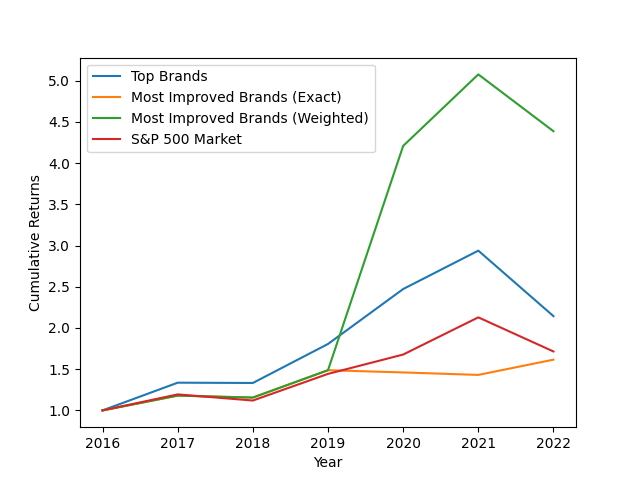
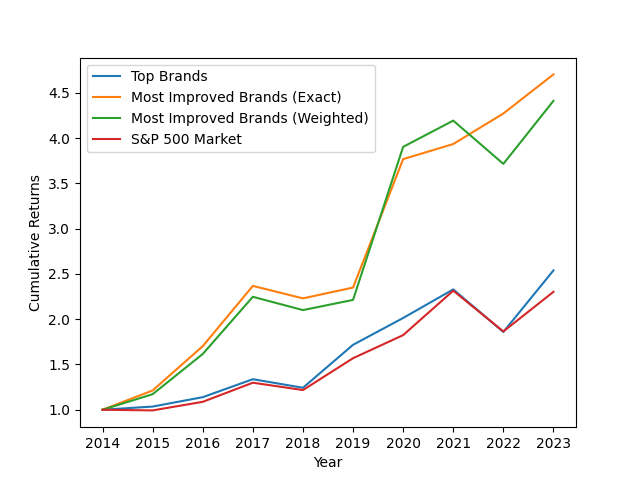
Add stock details for every strategy and year

diff --git a/calculate_returns.py b/calculate_returns.py
@@ -10,6 +10,9 @@ from reportlab.lib.utils import ImageReader
 from reportlab.platypus import Table, TableStyle
 from reportlab.lib import colors
 import numpy as np
+from reportlab.platypus import SimpleDocTemplate, Paragraph, Spacer, Image, Table
+from reportlab.lib.styles import getSampleStyleSheet
+from reportlab.lib.units import inch
 
 def get_returns(ticker, year):
     start_date = f"{year-1}-12-01"
@@ -30,35 +33,41 @@ def get_returns(ticker, year):
     yearly_return = data['Adj Close'].iloc[-1] / data['Adj Close'].iloc[0] - 1
     return monthly_returns, yearly_return
 
-def create_pdf(pdf_path, table_data):
-    c = canvas.Canvas(pdf_path, pagesize=letter)
-    width, height = letter  # Get the dimensions of the page
-    
-    # Cumulative Returns
-    image = ImageReader("data/cumulative_returns.png")
-    c.drawImage(image, 50, height - 350, width=500, height=300)  # Adjust the position and size as needed
+def create_pdf(pdf_path, table_data, stock_details_top_brands, stock_details_most_improved_exact, stock_details_most_improved_weighted):
+    doc = SimpleDocTemplate(pdf_path, pagesize=letter)
+    story = []
+    styles = getSampleStyleSheet()
 
-    # Yearly Returns
-    image = ImageReader("data/yearly_returns.png")
-    c.drawImage(image, 50, height - 700, width=500, height=300)  # Adjust the position and size as needed
+    # Add cumulative and yearly returns images
+    story.append(Paragraph('<b>Cumulative Returns</b>', styles['Heading2']))
+    story.append(Image('data/cumulative_returns.png', 6*inch, 3*inch))  # Adjust dimensions as needed
+    story.append(Spacer(1, 12))
 
-    # Net Returns and Sharpe Ratios
-    table_style = TableStyle([
-        ('BACKGROUND', (0, 0), (-1, 0), colors.grey),
-        ('TEXTCOLOR',(0,0),(-1,0),colors.whitesmoke),
-        ('ALIGN',(0,0),(-1,-1),'CENTER'),
-        ('FONTNAME', (0, 0), (-1, 0), 'Helvetica-Bold'),
-        ('BOTTOMPADDING', (0, 0), (-1, 0), 12),
-        ('BACKGROUND',(0,1),(-1,-1),colors.beige),
-        ('GRID',(0,0),(-1,-1),1,colors.black)
-    ])
-    table = Table(table_data, colWidths=[width/len(table_data[0])] * len(table_data[0]), hAlign='LEFT')
-    table.setStyle(table_style)
-    
-    table.wrapOn(c, width, height)
-    table.drawOn(c, 30, height - 800)  # Adjust as needed
+    story.append(Paragraph('<b>Yearly Returns</b>', styles['Heading2']))
+    story.append(Image('data/yearly_returns.png', 6*inch, 3*inch))  # Adjust dimensions as needed
+    story.append(Spacer(1, 12))
 
-    c.save()
+    # Add net returns and Sharpe Ratios table
+    story.append(Paragraph('<b>Net Returns and Sharpe Ratios</b>', styles['Heading2']))
+    table = Table(table_data, colWidths=[2.5*inch]*len(table_data[0]))
+    story.append(table)
+    story.append(Spacer(1, 12))
+
+    # Function to add stock details to the story
+    def add_stock_details_to_story(strategy_name, stock_details):
+        story.append(Paragraph(f'<b>{strategy_name} Strategy</b>', styles['Heading2']))
+        for year, stocks in stock_details.items():
+            story.append(Paragraph(f'Year {year}', styles['Heading3']))
+            for ticker, return_val in stocks:
+                story.append(Paragraph(f'{ticker}: {return_val:.2%}', styles['Normal']))
+            story.append(Spacer(1, 12))
+
+    # Add stock details for each strategy
+    add_stock_details_to_story('Top Brands', stock_details_top_brands)
+    add_stock_details_to_story('Most Improved Brands (Exact)', stock_details_most_improved_exact)
+    add_stock_details_to_story('Most Improved Brands (Weighted)', stock_details_most_improved_weighted)
+
+    doc.build(story)
 
 def calculate_performance_metrics(monthly_returns):
     # Assuming monthly_returns is a list of monthly returns
@@ -120,6 +129,8 @@ def load_brand_rankings(year, rankings_directory, most_improved=False, weighted=
 def calculate_returns_for_brands(ticker_mapping, start_year, end_year, rankings_directory, number_of_brands, most_improved=False, weighted=False):
     monthly_returns = {}
     yearly_returns = {}
+    stock_details = {}
+
     for year in range(start_year, end_year + 1):
         brands = load_brand_rankings(year, rankings_directory, most_improved, weighted, number_of_brands)
         tickers = [ticker_mapping.get(brand) for brand in brands if (ticker_mapping.get(brand, 'N/A') != 'N/A' and not (type(ticker_mapping.get(brand))==float and math.isnan(ticker_mapping.get(brand))))]
@@ -131,7 +142,16 @@ def calculate_returns_for_brands(ticker_mapping, start_year, end_year, rankings_
         average_monthly_returns = [sum(month) / len(month) for month in zip(*all_returns)]
         monthly_returns[year] = average_monthly_returns
         yearly_returns[year] = avg_yearly_return
-    return monthly_returns, yearly_returns
+
+        year_stock_details = []
+        for ticker in tickers:
+            if ticker is not None:
+                m_returns, y_return = get_returns(ticker, year)
+                year_stock_details.append((ticker, y_return))
+        
+        stock_details[year] = year_stock_details
+
+    return monthly_returns, yearly_returns, stock_details
 
 def get_market_monthly_returns(index_ticker, start_year, end_year):
     market_returns = {}
@@ -213,11 +233,11 @@ def main(rankings_directory, start_year=2022, end_year=2022, calculate_top_brand
     ticker_mapping = load_ticker_mapping('BrandData/CompanyToTicker_with_tickers.xlsx')
     
     if calculate_top_brands:
-        top_brand_monthly_returns, top_brand_yearly_returns = calculate_returns_for_brands(ticker_mapping, start_year, end_year, rankings_directory, number_of_brands)
+        top_brand_monthly_returns, top_brand_yearly_returns, top_brand_stock_details = calculate_returns_for_brands(ticker_mapping, start_year, end_year, rankings_directory, number_of_brands)
     if calculate_most_improved_exact:
-        most_improved_monthly_returns_exact, most_improved_yearly_returns_exact = calculate_returns_for_brands(ticker_mapping, start_year, end_year, rankings_directory, number_of_brands, most_improved=True, weighted=False)
+        most_improved_monthly_returns_exact, most_improved_yearly_returns_exact, most_improved_exact_stock_details = calculate_returns_for_brands(ticker_mapping, start_year, end_year, rankings_directory, number_of_brands, most_improved=True, weighted=False)
     if calculate_most_improved_weighted:
-        most_improved_monthly_returns_weighted, most_improved_yearly_returns_weighted = calculate_returns_for_brands(ticker_mapping, start_year, end_year, rankings_directory, number_of_brands, most_improved=True, weighted=True)
+        most_improved_monthly_returns_weighted, most_improved_yearly_returns_weighted, most_improved_weighted_stock_details = calculate_returns_for_brands(ticker_mapping, start_year, end_year, rankings_directory, number_of_brands, most_improved=True, weighted=True)
     if calculate_market:
         market_monthly_returns, market_yearly_returns = get_market_monthly_returns('^GSPC', start_year, end_year)
 
@@ -283,8 +303,8 @@ def main(rankings_directory, start_year=2022, end_year=2022, calculate_top_brand
     plot_cumulative_returns(total_yearly_returns_top_brands, total_yearly_returns_most_improved_exact, total_yearly_returns_most_improved_weighted, total_yearly_returns_market, start_year, end_year)
     table_data = table_net_returns_and_sharpe_ratios(annualized_return_top_brands, annualized_return_most_improved_exact, annualized_return_most_improved_weighted, annualized_return_market, net_sharpe_ratio_top_brands, net_sharpe_ratio_most_improved_exact, net_sharpe_ratio_most_improved_weighted, net_sharpe_ratio_market)
     pdf_path = 'data/analysis_report.pdf'
-    create_pdf(pdf_path, table_data)
+    create_pdf(pdf_path, table_data, top_brand_stock_details, most_improved_exact_stock_details, most_improved_weighted_stock_details)
 
 if __name__ == "__main__":
     rankings_directory = 'BrandData'
-    main(rankings_directory, start_year=2017, end_year=2022, calculate_top_brands=True, calculate_most_improved_exact=True, calculate_most_improved_weighted=True, calculate_market=True, number_of_brands=10)
+    main(rankings_directory, start_year=2015, end_year=2023, calculate_top_brands=True, calculate_most_improved_exact=True, calculate_most_improved_weighted=True, calculate_market=True, number_of_brands=20)
